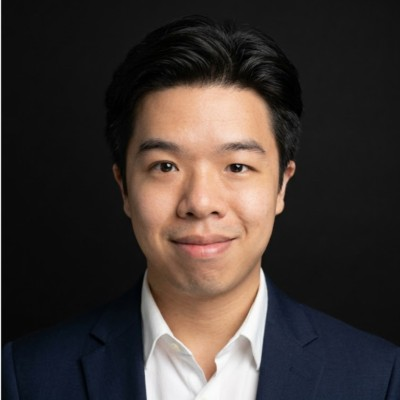
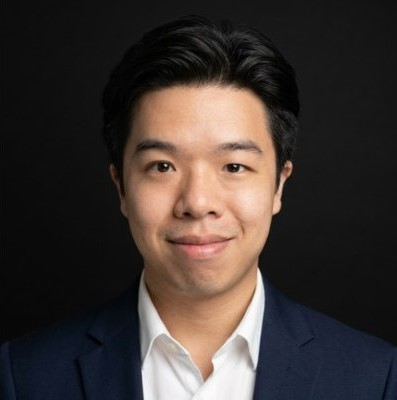
Fade the portrait into the page and publish the site as a static export.
The public site can be hosted without the private CV, and GitHub Actions deploys it for anyone to open.

diff --git a/src/components/hero.tsx b/src/components/hero.tsx
@@ -20,7 +20,7 @@ export function Hero() {
     <section id="top" className="relative isolate overflow-hidden">
       <div className="hero-glow pointer-events-none absolute inset-0" aria-hidden="true" />
       <motion.div
-        className="relative mx-auto grid min-h-[calc(100svh-4.5rem)] max-w-[1120px] items-center gap-10 px-6 py-20 lg:grid-cols-[minmax(0,1fr)_280px]"
+        className="relative mx-auto grid min-h-[calc(100svh-4.5rem)] max-w-[1120px] items-center gap-10 px-6 py-20 lg:grid-cols-[minmax(0,1fr)_360px]"
         initial="hidden"
         animate="show"
         variants={{
@@ -79,13 +79,13 @@ export function Hero() {
 
         <motion.div variants={fade} className="hero-enter order-1 justify-self-center lg:order-2 lg:justify-self-end">
           <Image
-            src="/profile.jpg"
+            src="/portrait.png"
             alt={`Portrait of ${profile.name}`}
-            width={640}
-            height={640}
+            width={397}
+            height={400}
             priority
-            sizes="(min-width: 1024px) 280px, 224px"
-            className="aspect-square w-44 rounded-2xl object-cover ring-1 ring-line sm:w-56 lg:w-[280px]"
+            sizes="(min-width: 1024px) 340px, 256px"
+            className="w-56 sm:w-64 lg:w-[340px] h-auto"
           />
         </motion.div>
       </motion.div>

diff --git a/next.config.ts b/next.config.ts
@@ -1,9 +1,13 @@
 import type { NextConfig } from "next";
 
+const basePath = process.env.GITHUB_PAGES === "1" ? "/Personal_Portfolio" : "";
+
 const nextConfig: NextConfig = {
-  /* config options here */
-  cacheComponents: true,
-  partialPrefetching: true,
+  output: "export",
+  basePath,
+  images: {
+    unoptimized: true,
+  },
   turbopack: {
     rules: {
       "*.css": {
